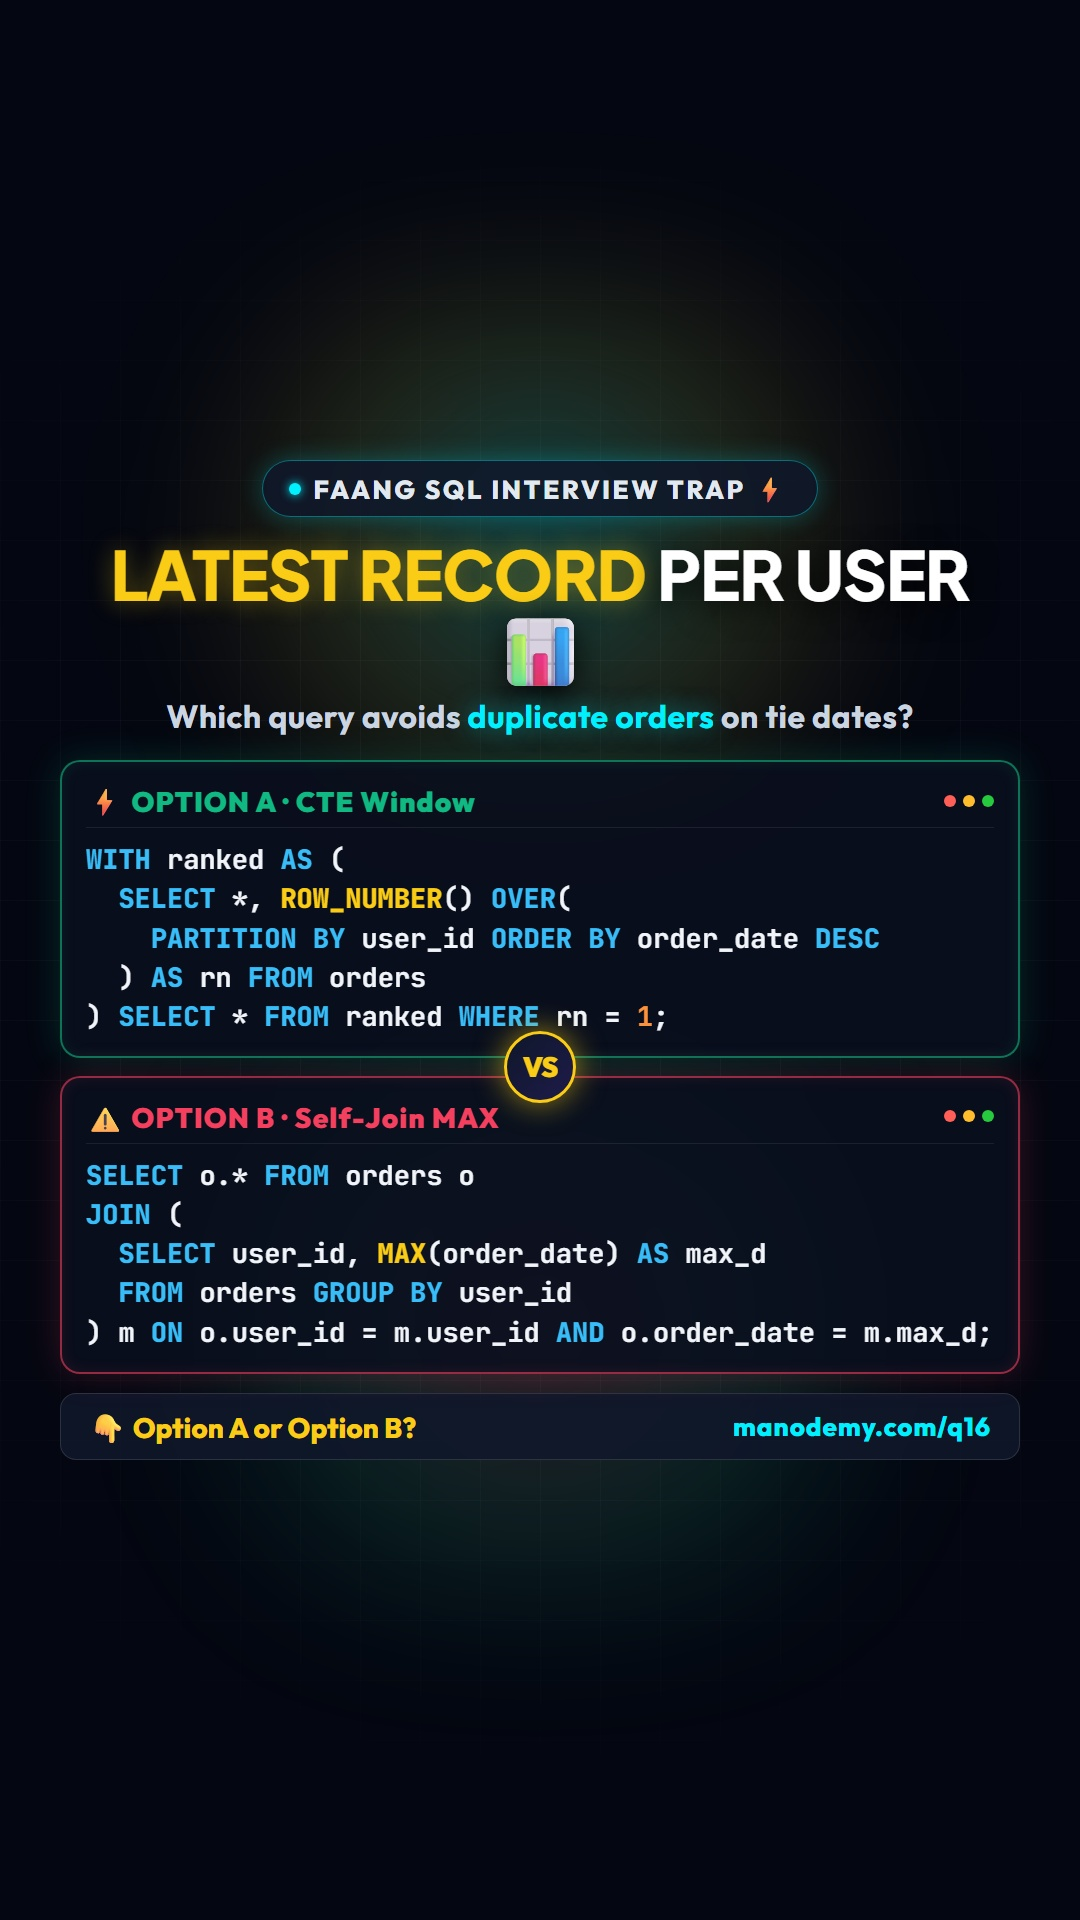
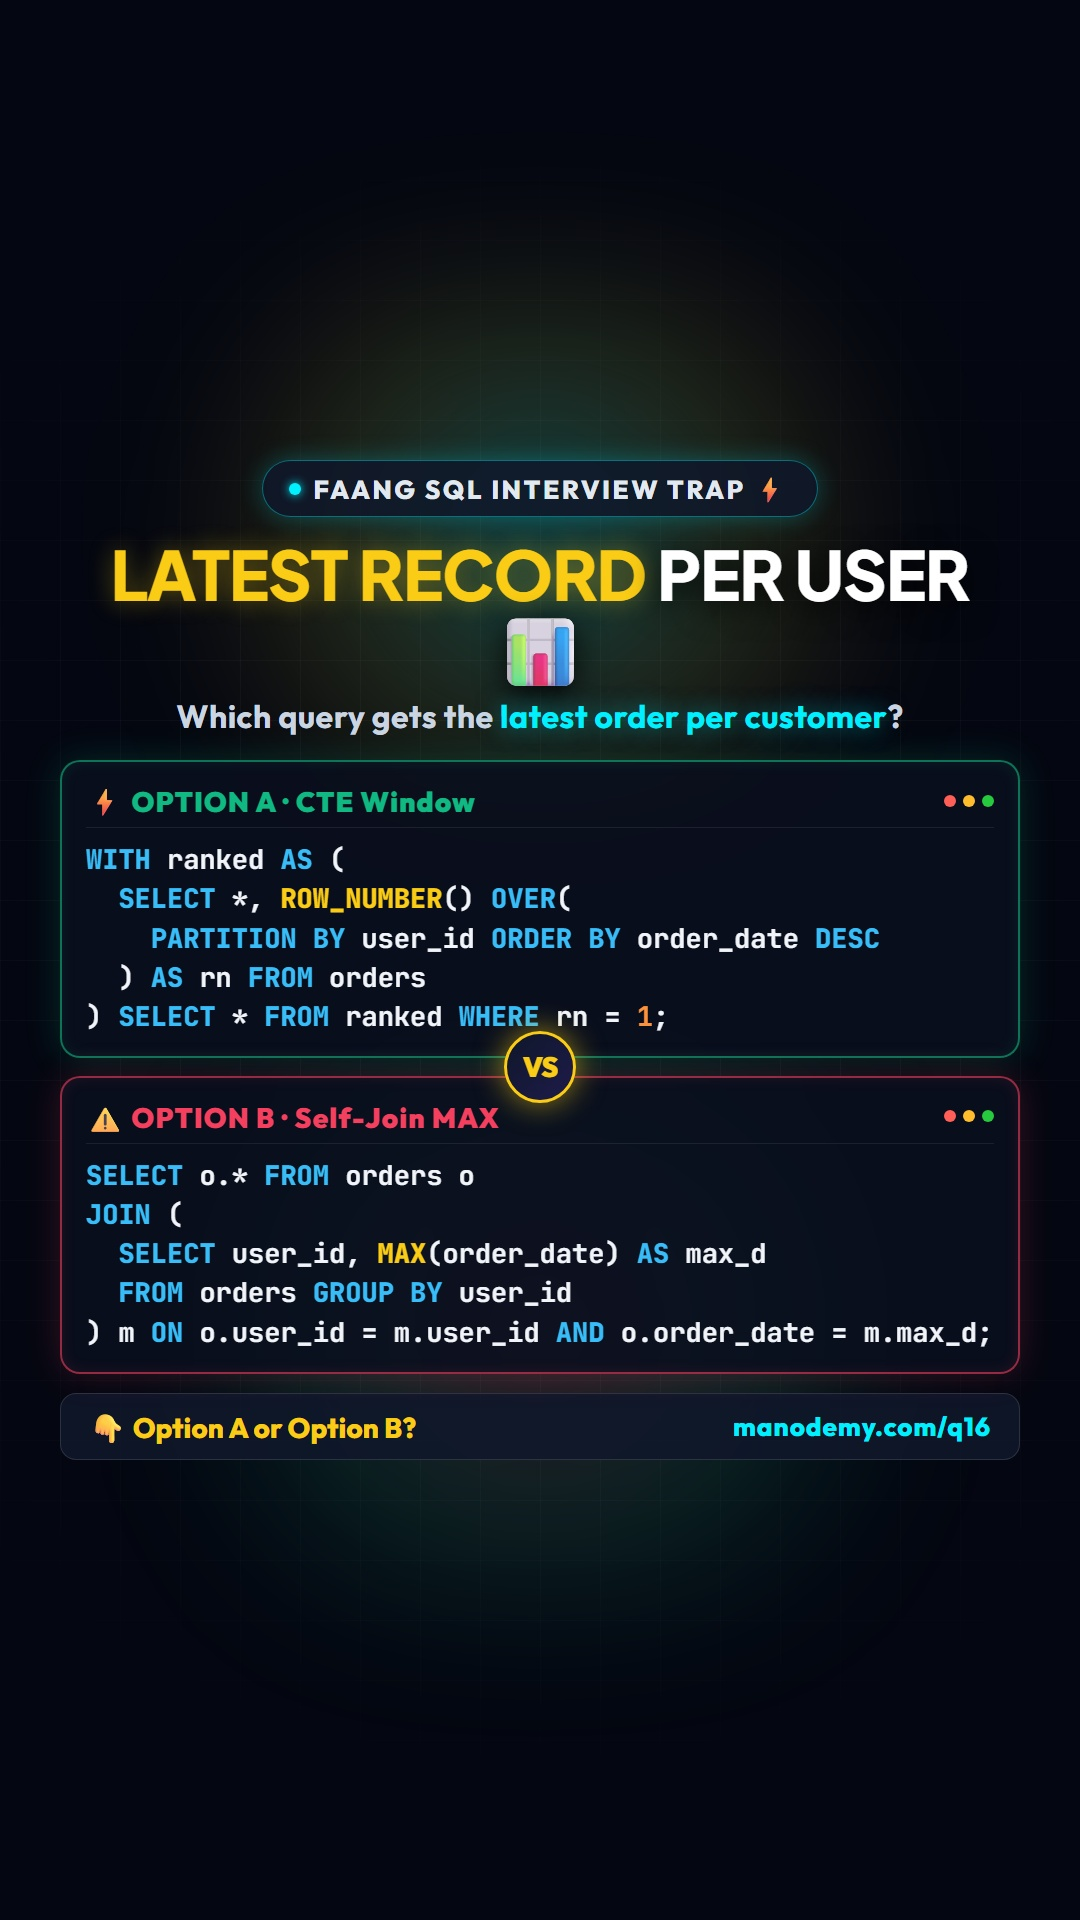
fix(marketing): sync exact question text in cover thumbnail to match video narration and reel hook

diff --git a/marketing/generate_sample_cover.py b/marketing/generate_sample_cover.py
@@ -287,7 +287,7 @@ HTML_COVER = """<!DOCTYPE html>
         <span class="highlight-gold">LATEST RECORD</span> PER USER 📊
       </div>
       <div class="sub-question">
-        Which query avoids <span class="highlight-cyan">duplicate orders</span> on tie dates?
+        Which query gets the <span class="highlight-cyan">latest order per customer</span>?
       </div>
     </div>
 
